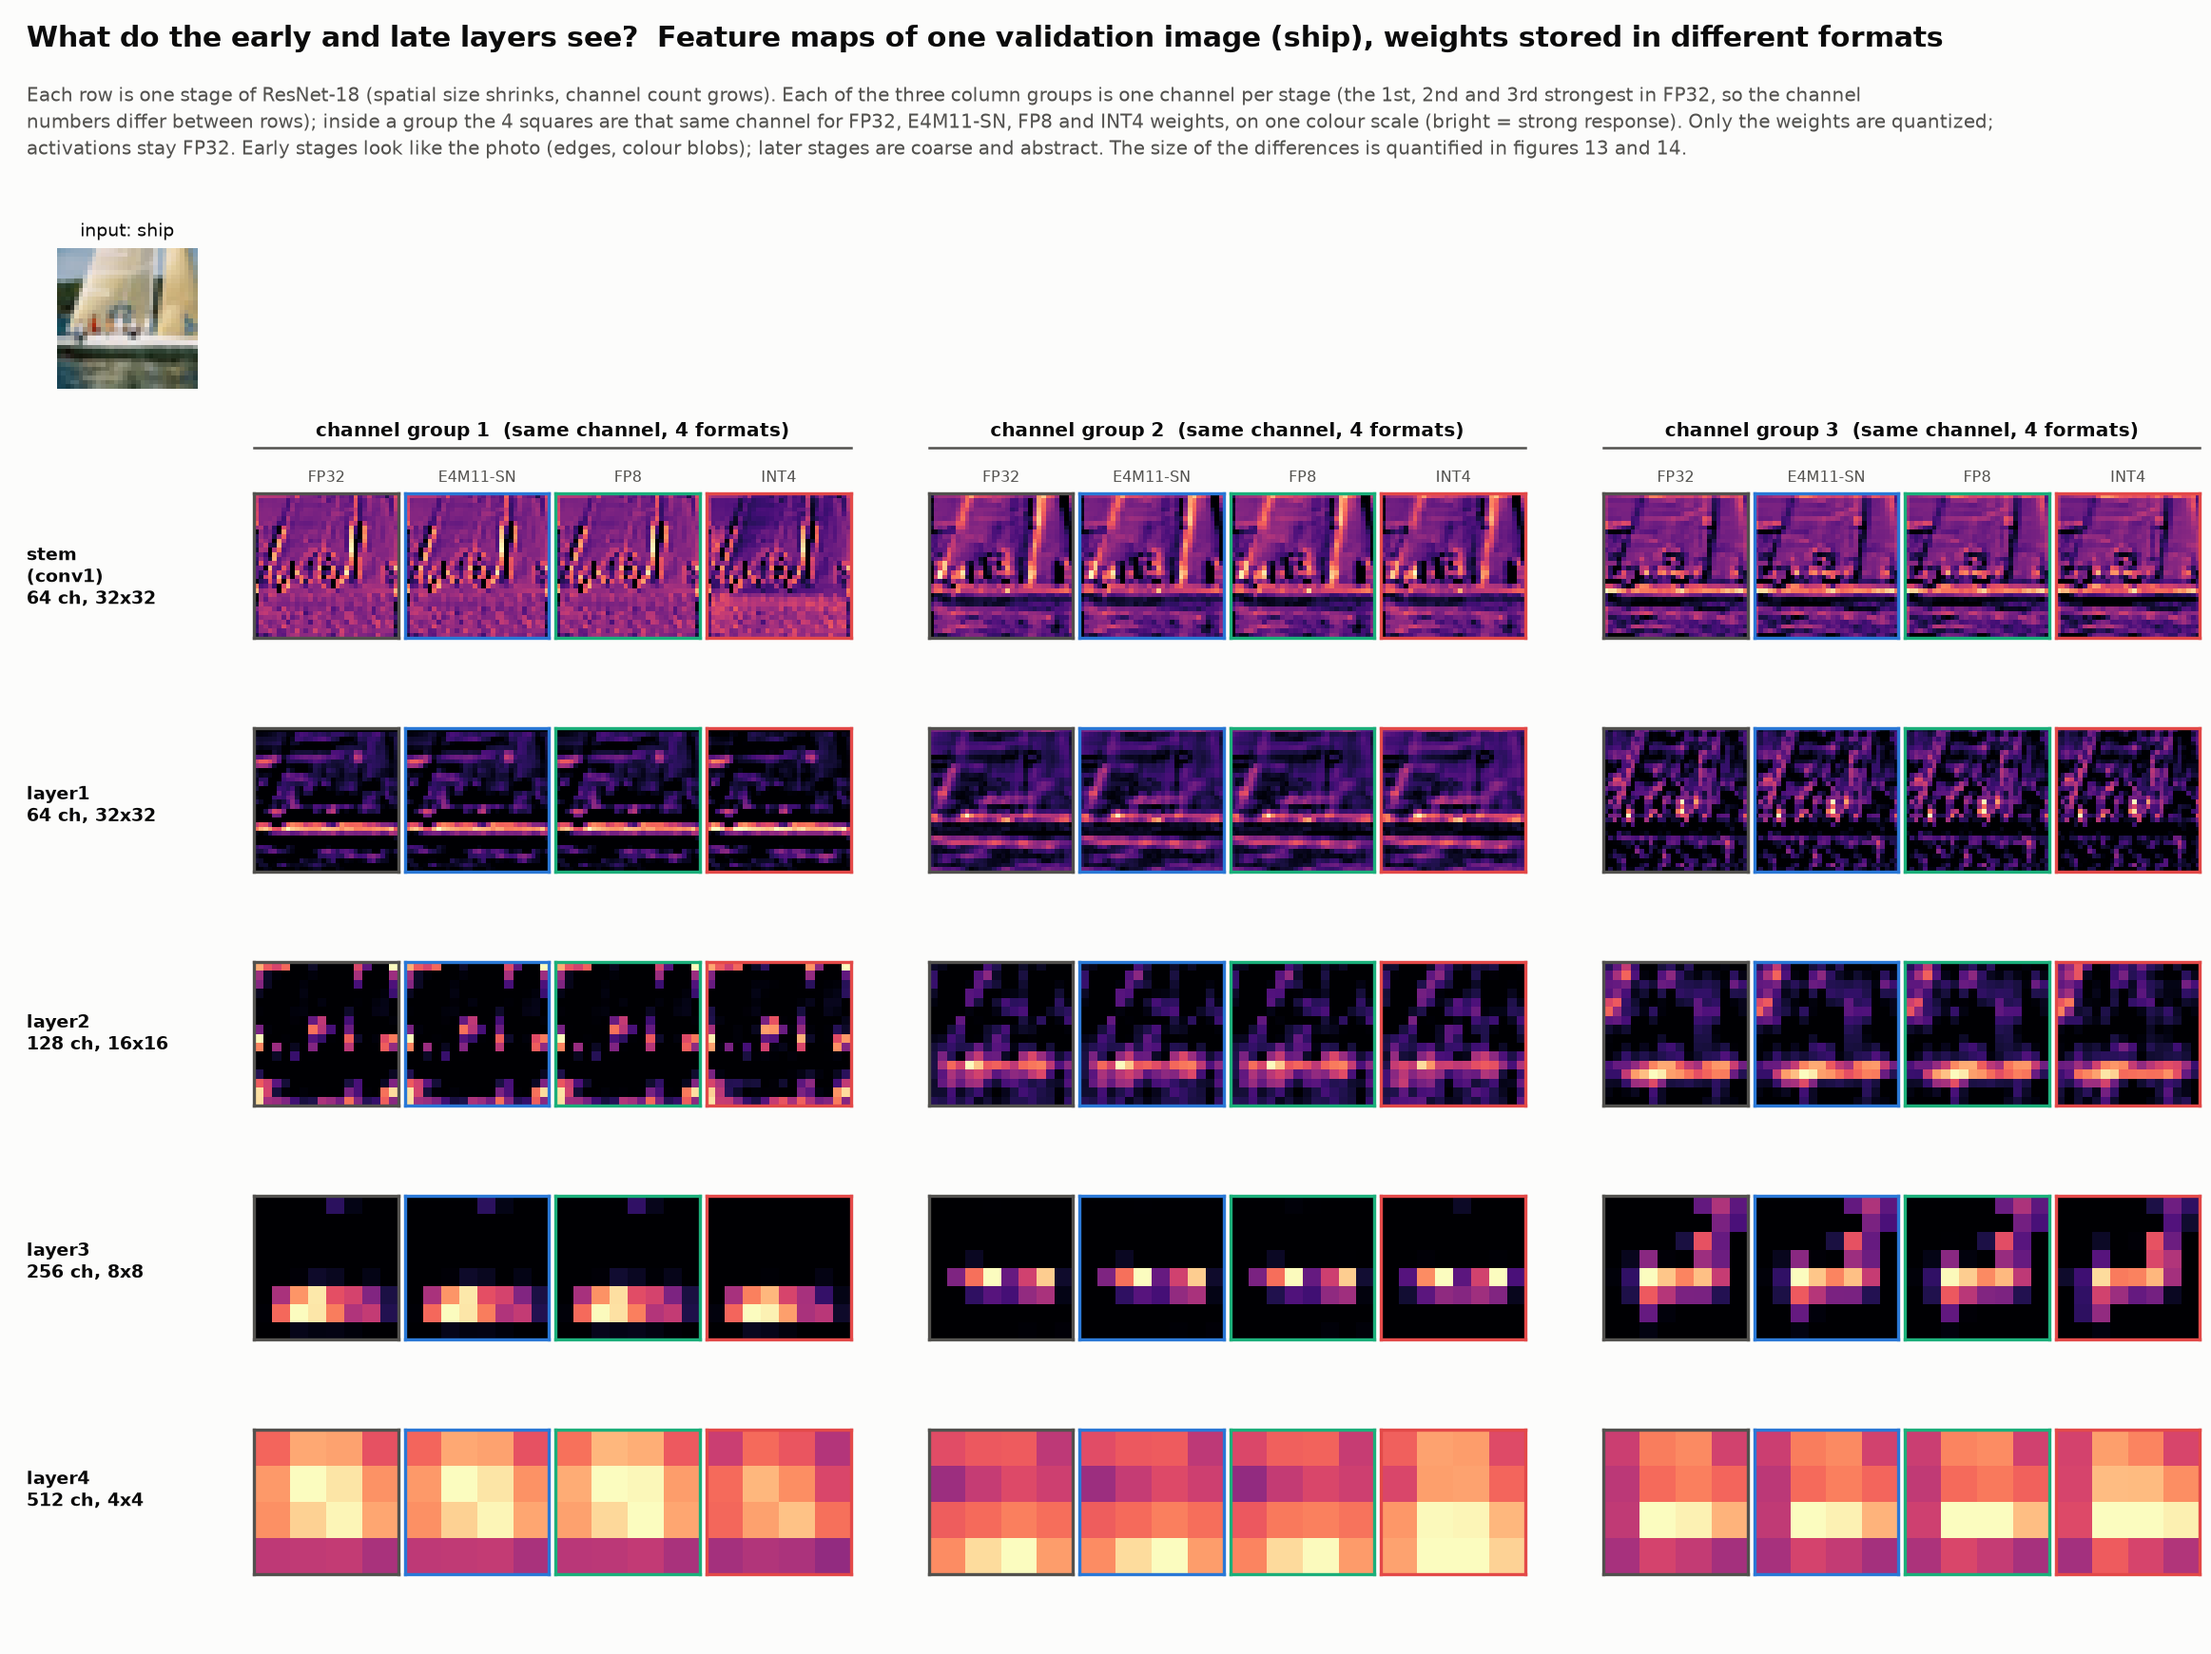
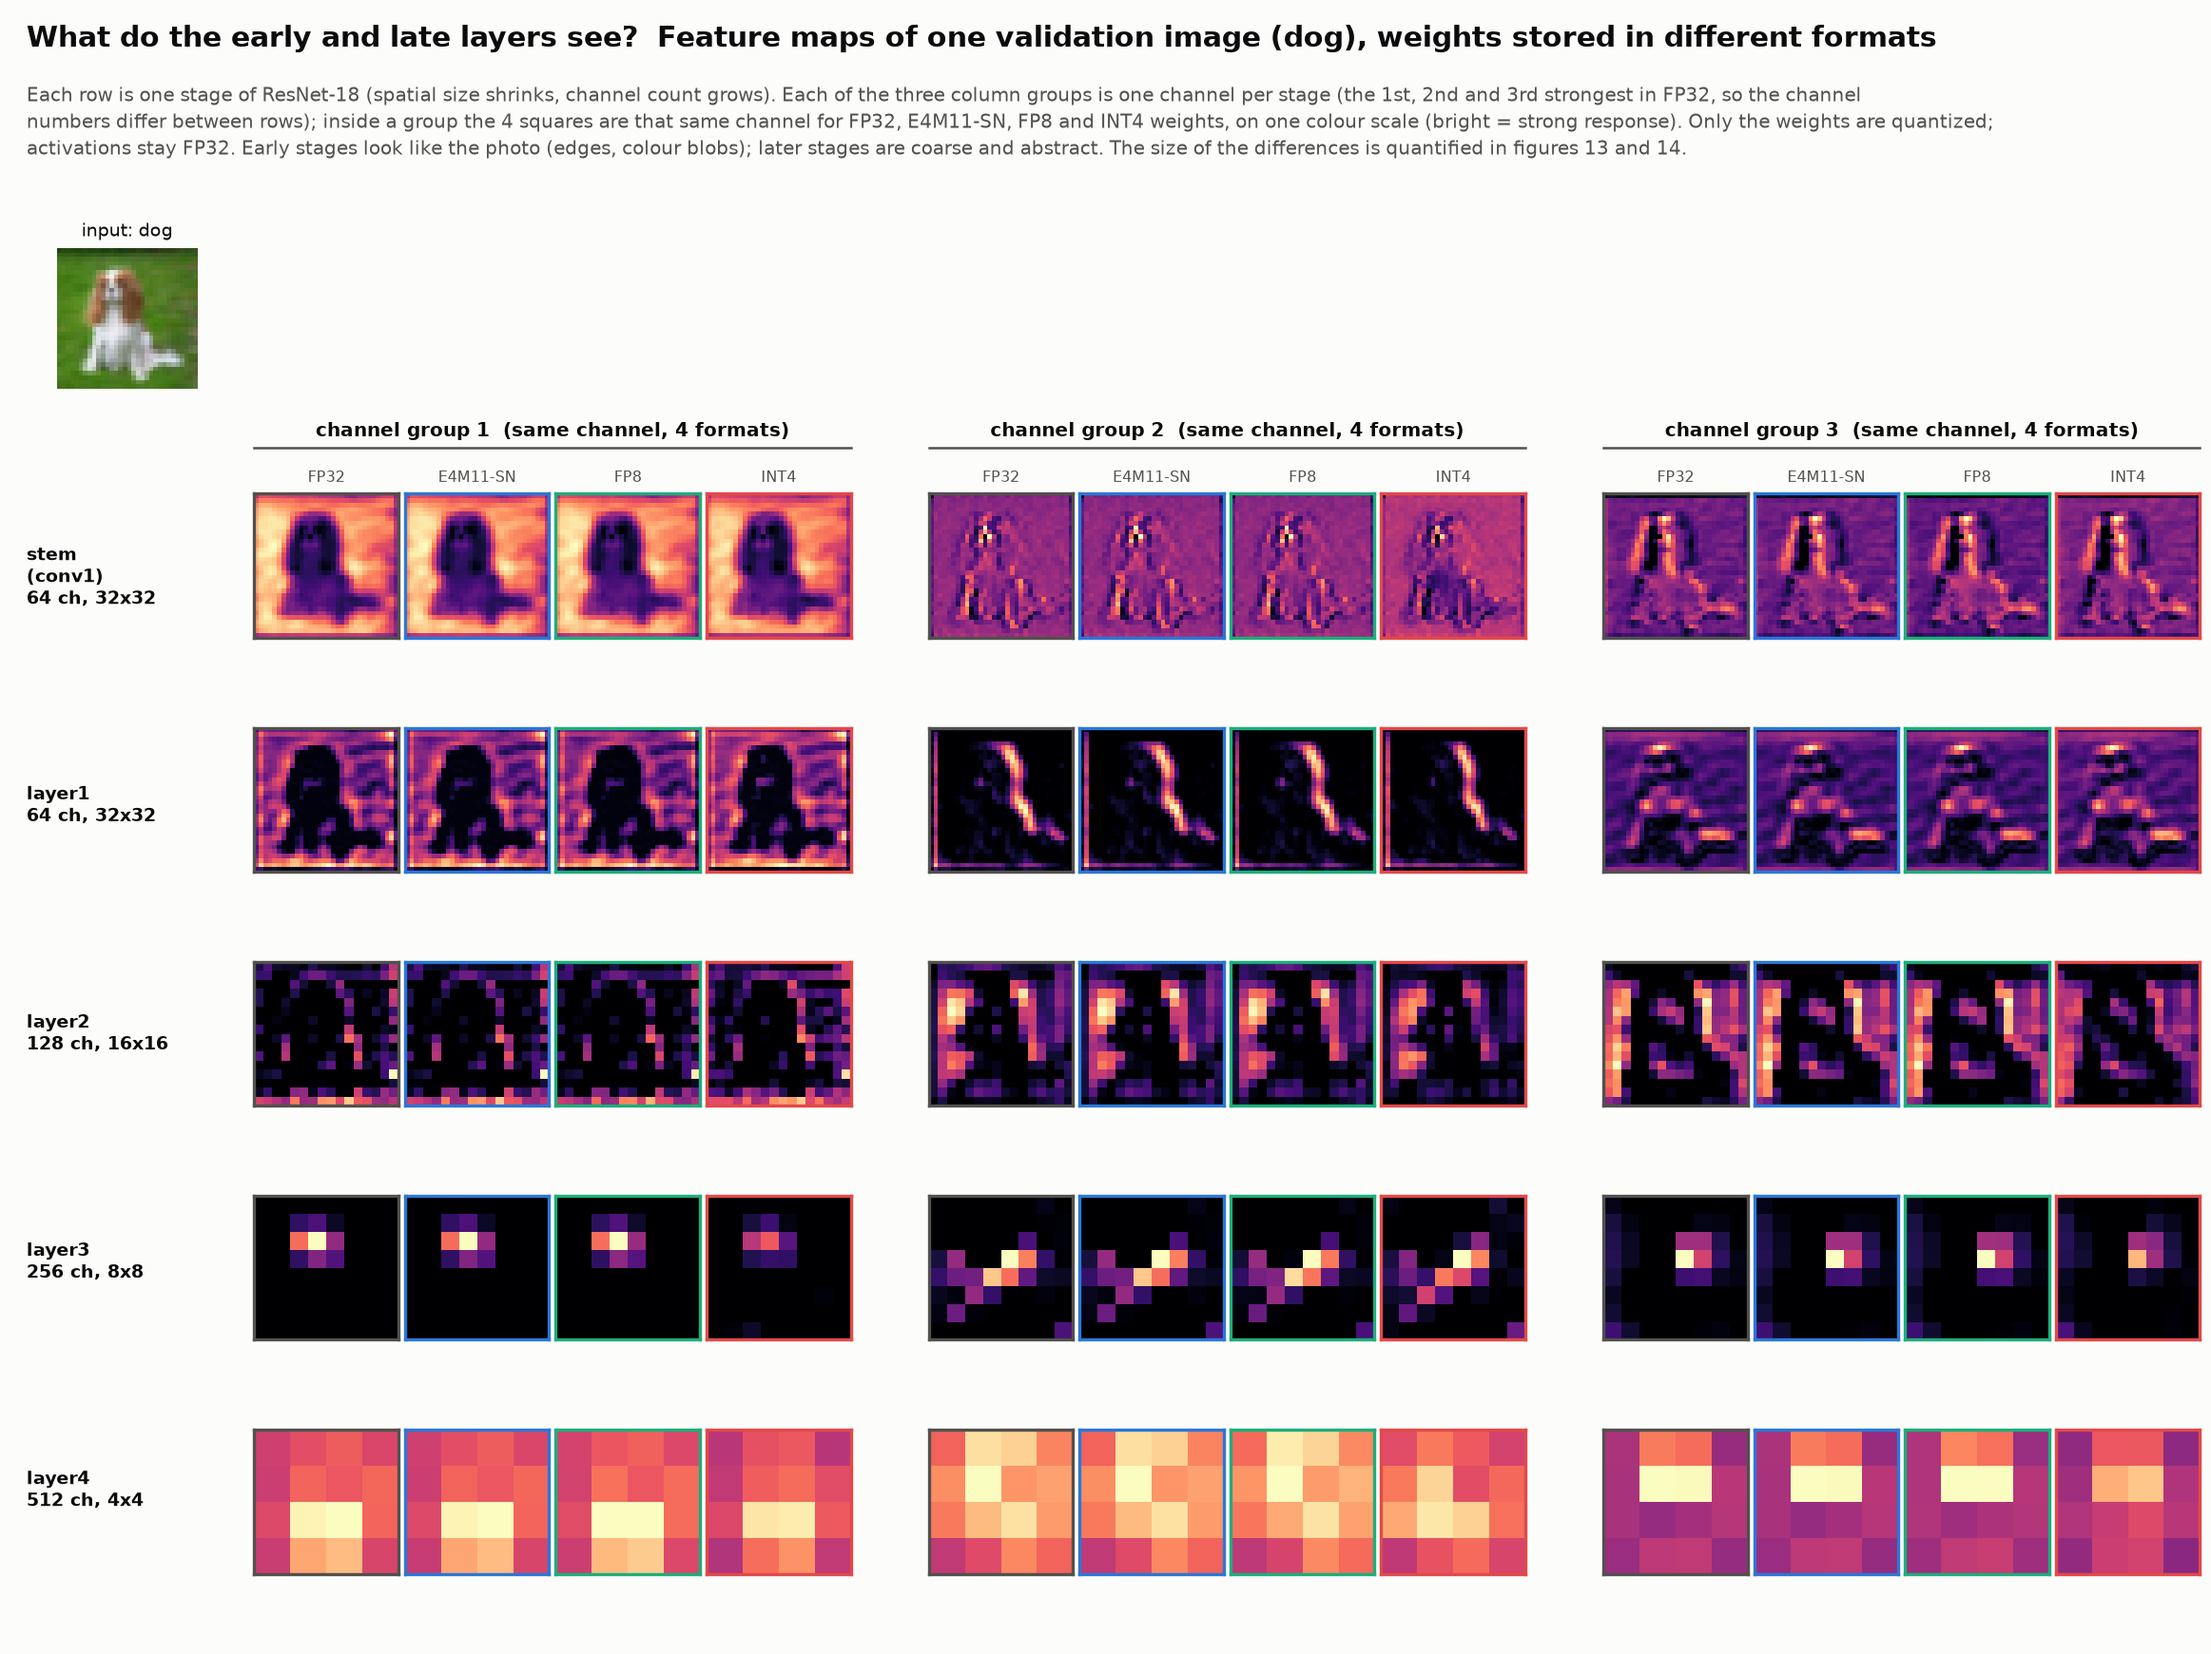
Presentation: slide 5 uses the dog feature-map figure

diff --git a/presentation/presentation.tex b/presentation/presentation.tex
@@ -131,8 +131,8 @@
 \begin{frame}{What the layers see: feature maps with weights in different formats}
   \centering
   \includegraphics[width=0.66\textwidth,height=0.78\textheight,keepaspectratio]{rn_feature_maps.png}\\[-1mm]
-  {\scriptsize One validation image (ship); per stage, three channels shown for FP32, E4M11-SN, FP8 and INT4 weights. Only weights are quantized.
-  E4M11-SN and FP8 are nearly identical to FP32; INT4 deviates more, visibly in the early stages. Early stages look like the photo, later stages are coarse and abstract.}
+  {\scriptsize One validation image (dog); per stage, three channels shown for FP32, E4M11-SN, FP8 and INT4 weights. Only weights are quantized.
+  E4M11-SN and FP8 are nearly identical to FP32; INT4 deviates more (e.g.\ stem channel group 2, layer2, layer3). The dog's outline is clear in the stem and layer1; later stages are coarse and abstract.}
 \end{frame}
 
 % ------------------------------------------------------------------ 6. Fisher
